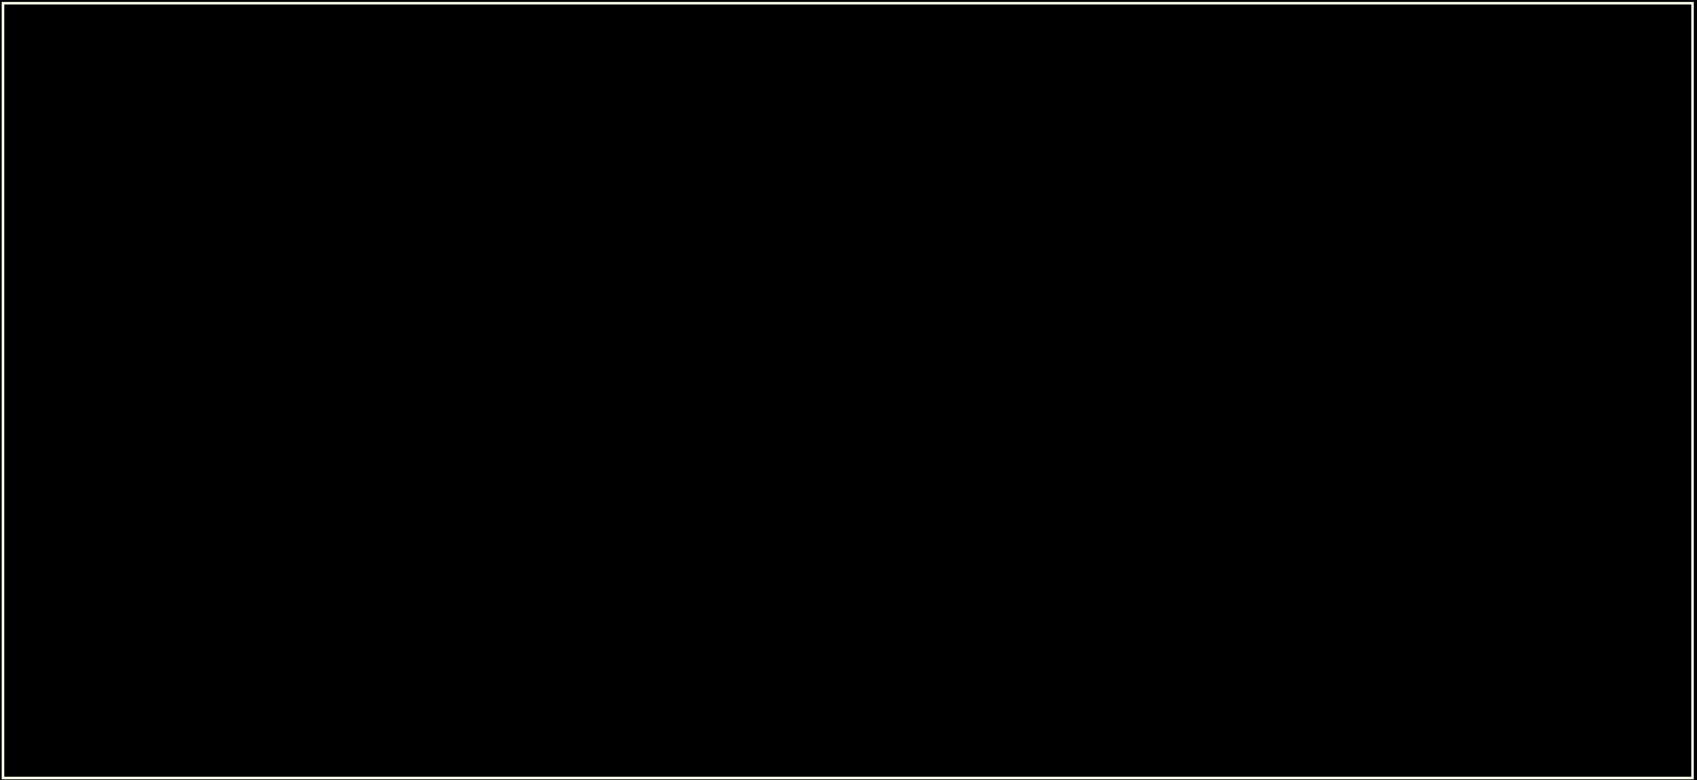
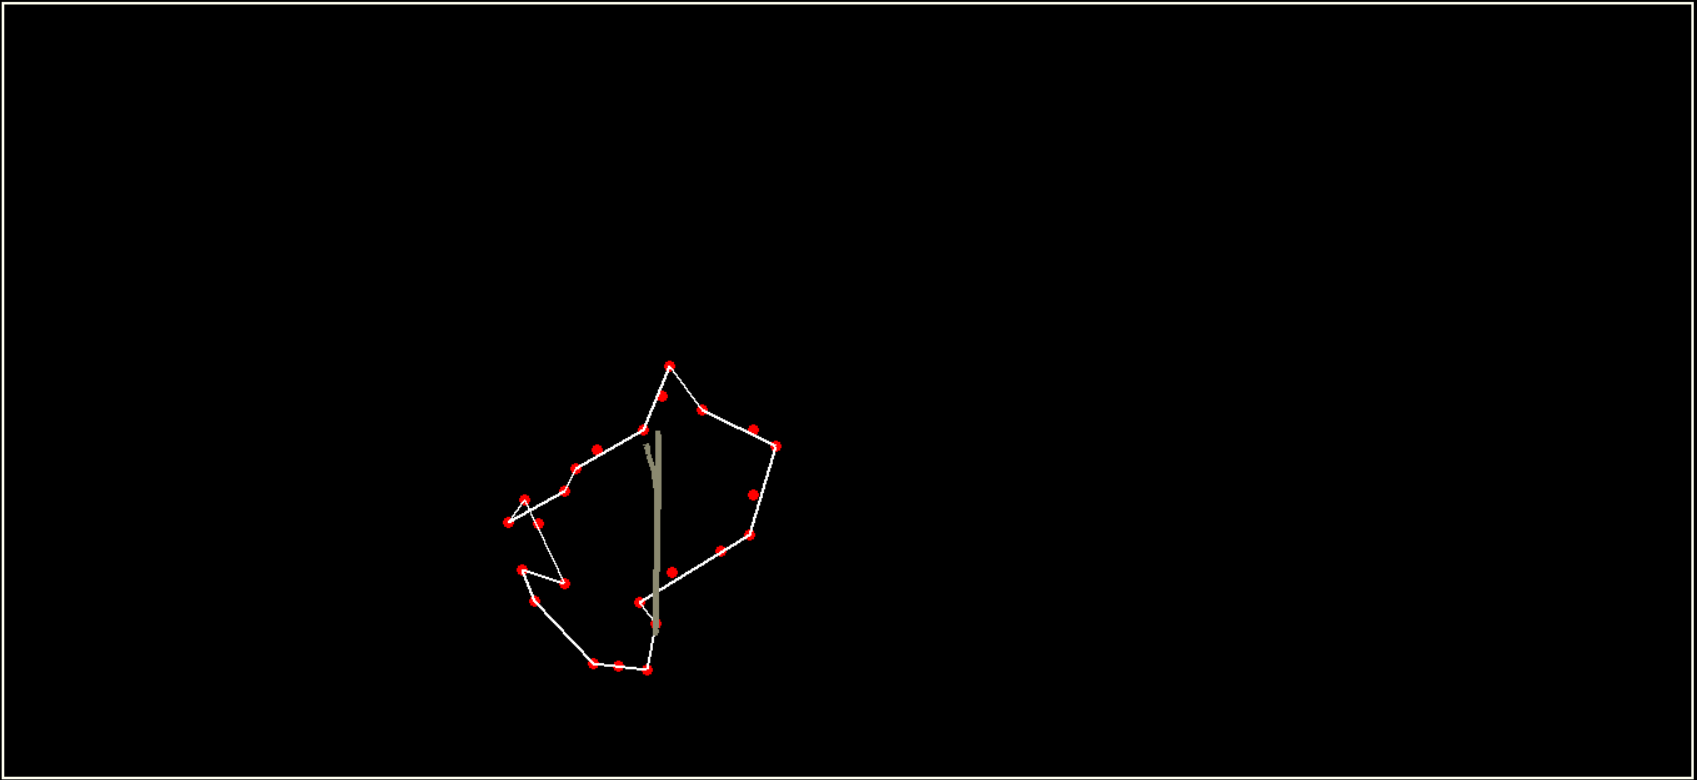
Dernière version

diff --git a/traitement_avec_obstacle.py b/traitement_avec_obstacle.py
@@ -1,0 +1,148 @@
+from math import sqrt, degrees, atan2
+import tkinter as tk
+
+class Traitement:
+    aggrandissement = 2
+    decalage_x = 600
+    decalage_y = 400
+    distance_min= 12
+    angle_min = 20
+    rayon = 5
+    distance_fermeture = 5
+    distance_connexion = 6
+    point_min = 9
+
+    def distance(self, p1, p2):
+        distance = sqrt((p1[0]-p2[0])**2 + (p1[1]-p2[1])**2)
+        return distance
+
+    def angle_entre_2_pt(self, p1, p2, p3):
+        angle = degrees(atan2(p3[1]-p2[1], p3[0]-p2[0]) - atan2(p1[1]-p2[1], p1[0]-p2[0]))
+        if angle < 0:
+            return angle + 360
+        else :
+            return angle
+
+    def supprimer_point(self, tableau_pts, distance_delete=10):
+        resultat = []
+
+        for pt in tableau_pts:
+            trop_proche = False
+            for autre_pt in resultat:
+                if self.distance(pt, autre_pt) < distance_delete:
+                    trop_proche = True
+                    break
+            if not trop_proche:
+                resultat.append(pt)
+
+        return resultat
+
+    def trouver_contours_multiple(self, tableau_pts, distance_fermeture=18, distance_connexion=50, point_min = 4):
+        tableau_pts = tableau_pts.copy()
+        non_utilises = set(tableau_pts)
+        utilise = set()
+        tous_contours = []
+
+        while len(non_utilises) != 0:
+            pt_depart = non_utilises.pop()
+            contour = [pt_depart]
+            utilise.add(pt_depart)
+            pt_actuel = pt_depart
+
+            while True:
+                plus_proche = None
+                d_min = 9999999999999999999999
+
+                for pt in tableau_pts:
+                    if pt in utilise:
+                        continue
+                    d = self.distance(pt_actuel, pt)
+                    if d < d_min and d < distance_connexion:
+                        d_min = d
+                        plus_proche = pt
+
+                if plus_proche is None:
+                    break
+
+                if len(contour) > point_min and self.distance(plus_proche, pt_depart) < distance_fermeture:
+                    contour.append(pt_depart)
+                    break
+
+                contour.append(plus_proche)
+                utilise.add(plus_proche)
+                pt_actuel = plus_proche
+
+            if len(contour) > point_min :
+                tous_contours.append(contour)
+                
+            non_utilises = set(tableau_pts) - utilise
+        return tous_contours
+
+
+    def detecter_segments(self, tableau_contour):
+        segments = []
+        segment_aligner = [tableau_contour[0], tableau_contour[1]]
+        
+        for i in range(2, len(tableau_contour)):
+            angle = self.angle_entre_2_pt(segment_aligner[-2], segment_aligner[-1], tableau_contour[i])
+            
+            if abs(angle - 180) < self.angle_min:
+                segment_aligner.append(tableau_contour[i])
+            else:
+                segments.append(segment_aligner)
+                segment_aligner = [segment_aligner[-1], tableau_contour[i]]
+        
+        segments.append(segment_aligner)
+        return segments
+
+
+    def jolie_contour(self, segments):
+        contour = []
+        for segment in segments:
+            if len(segment) > 2:
+                contour.append(segment[0])
+                contour.append(segment[-1])
+            else:
+                contour.extend(segment)
+        contour.append(contour[0])
+        return contour
+
+
+    def afficher_points(self, tableau_pts, couleur= 'red', rayon= 4, canvas = None):
+        tableau_pts = self.supprimer_point(tableau_pts)
+        for pt in range(len(tableau_pts)):
+            x1 = tableau_pts[pt][0]
+            y1 = tableau_pts[pt][1]
+            x1p_affichage = self.decalage_x + x1*self.aggrandissement - self.rayon
+            x2p_affichage = self.decalage_x + x1*self.aggrandissement + self.rayon
+            y1p_affichage = self.decalage_y + y1*self.aggrandissement - self.rayon
+            y2p_affichage = self.decalage_y + y1*self.aggrandissement + self.rayon
+            canvas.create_oval(x1p_affichage, y1p_affichage, x2p_affichage, y2p_affichage, fill=couleur,tags='boules')
+
+
+    def afficher_contour(self, tableau_pts, couleur='white', largeur=2, canvas = None):
+        tableau_pts = self.supprimer_point(tableau_pts)
+        contours = self.trouver_contours_multiple(tableau_pts)
+        for contour in contours:
+            segments = self.detecter_segments(contour)
+            contour_final = self.jolie_contour(segments)
+            for i in range(len(contour_final)-1):
+                x1 = self.decalage_x + contour_final[i][0]* self.aggrandissement
+                y1 = self.decalage_y + contour_final[i][1]*self.aggrandissement
+                x2 = self.decalage_x + contour_final[i+1][0]*self.aggrandissement
+                y2 = self.decalage_y + contour_final[i+1][1]*self.aggrandissement
+                canvas.create_line(x1, y1, x2, y2, fill=couleur, width=largeur,tags='contour')
+
+
+if __name__ == "__main__":
+
+    tableau_pts =[(-116.91201030255147, 18.4184848459224), (-72.41144551988505, 14.570366808324628), (-85.29462723309673, 36.656668530909805), (-71.45670424113345, 9.659116729825616), (-56.03223133968331, 44.97559368290209), (-112.2332758388042, 26.258237115885482), (-65.67358635374991, 44.45141592775044), (-60.7584621585736, 24.255068591125482), (-52.01284674499741, 49.05000477264792), (-60.431884456652234, 23.806866375326095), (-68.74726838832208, 45.10558550918697), (-12.545376192777493, 32.7979101325227), (-74.98580249436354, 43.236149522627585), (-66.7436337059178, 47.20633728577047), (-68.00166582501174, 23.508661584018025), (-88.22573005898069, 41.05737819143405), (-64.66550505954005, 20.961662611984377), (-89.31145531013094, 40.496233527895555), (-83.73206746045499, -20.257464863211645), (-88.24755529940077, 38.40870752443766), (-67.11489112376557, 20.86375365524728), (-110.56393964458726, 14.938153382999655), (-69.96781327998143, 18.3478292274882), (-96.16977439184168, -17.708167979013616), (-110.78177563659364, 28.034383792948816), (-109.86381106414736, 24.864118191724476), (-111.63184915643944, 33.0268933563651), (-112.76694122538731, 26.24834269780739), (-112.62415156324792, 35.71143252637195), (-66.87879272060837, 12.716216655134296), (-107.03916825372696, 24.093855970243727), (-39.12396224975373, 63.152644403192035), (-43.296578331366945, 4.144127031425861), (-34.538602894210776, 66.34568190540644), (-102.31430718219966, 22.216080513139467), (-98.84153602561123, 51.8591744857322), (-111.51667255527549, 44.44144807758252), (-68.93320173283513, 29.597073217917092), (-82.54825515537455, 60.14541819489945), (-16.97737242408325, 25.147679333616562), (-50.104640210823035, 36.09290200449578), (-10.603793242102956, 56.69940739123424), (-18.20966858311312, 22.434791950206545), (-11.67926591891299, 60.718108441403615), (-5.659249813041192, 46.25351586678803), (-54.10132430373943, 47.134283338052946), (-36.247046135399955, 16.825176333481025), (-51.569104772527055, 34.13744936277541), (-36.12997401868257, 11.324385620527714), (-53.74532679601824, 30.968313334544757), (-59.43886992018293, 5.65508645326656), (-5.041765539612669, 40.72579697634529), (-60.72821588007016, 8.731557708786069), (-63.59423267751248, 3.664231337110366), (-98.50194577015628, 16.310111764777048), (-61.637849587297936, 30.57150174657228), (-70.07780431585682, -3.138474802900072), (-53.30677989135775, 65.70849529091326), (-105.41199242740369, 44.019019142277834), (-65.47844520973669, 30.316330932965798), (-78.93014824480707, 57.31348754895606), (-15.811134590069175, 26.63261084130376), (-37.72419354402597, 33.749682564450275), (2.7086559079710835, 20.329782768940788), (-30.299542091318976, 3.6414070200963833), (-34.286563557930165, -1.3697582390402003)]
+
+    root = tk.Tk()
+    canvas = tk.Canvas(root, width=1200, height=800, bg="black")
+    canvas.pack()
+
+    t = Traitement()
+    t.afficher_points(tableau_pts, canvas = canvas)
+    t.afficher_contour(tableau_pts, canvas = canvas)
+    root.mainloop()

diff --git a/traitement_sans_obstacle.py b/traitement_sans_obstacle.py
@@ -22,6 +22,20 @@ class Traitement:
             return angle
 
 
+    def supprimer_point(self, tableau_pts, distance_delete=10):
+        resultat = []
+
+        for pt in tableau_pts:
+            trop_proche = False
+            for autre_pt in resultat:
+                if self.distance(pt, autre_pt) < distance_delete:
+                    trop_proche = True
+                    break
+            if not trop_proche:
+                resultat.append(pt)
+
+        return resultat
+
     def trouver_contour_pas_ouf(self, tableau_pts):
         tableau_pts = tableau_pts.copy()
         contour = [tableau_pts.pop(0)]
@@ -69,6 +83,7 @@ class Traitement:
 
 
     def afficher_points(self, tableau_pts, couleur= 'red', rayon= 4, canvas = None):
+        tableau_pts = self.supprimer_point(tableau_pts)
         for pt in range(len(tableau_pts)):
             x1 = tableau_pts[pt][0]
             y1 = tableau_pts[pt][1]
@@ -80,6 +95,7 @@ class Traitement:
 
 
     def afficher_contour(self, tableau_pts, couleur='white', largeur=2, canvas = None):
+        tableau_pts = self.supprimer_point(tableau_pts)
         contour = self.trouver_contour_pas_ouf(tableau_pts)
         segments = self.detecter_segments(contour)
         contour_final = self.jolie_contour(segments)
@@ -93,8 +109,7 @@ class Traitement:
 
 if __name__ == "__main__":
 
-    tableau_pts = [(25.884486608083332, 2.591333656558904), (25.647374190184408, 13.57937469602671), (23.46514497412033, -7.647868125648587), (-25.58859495138687, 34.882765222761606), (-31.247853554465856, -10.858144980843468), (-37.289085989961364, -5.213635449083924), (-35.39823418431235, -11.092476236549066), (-32.6740039406639, 5.2503985426408555), (-63.76992791918652, 2.6708117339562425), (-40.731773483976724, -2.234204473641122), (-51.47154459008835, 0.8746593970318703), (-18.96151183290534, 21.158825984550088), (-20.979168990343318, -21.84603429853468), (-21.90918359820481, 17.7934776098926), (-22.762230576442768, 5.518729966571945), (-19.973065336663378, 13.07874494221834), (-22.28186405821009, 8.988469340034044), (-28.430359668057974, 5.931588200317328)]
-
+    tableau_pts = [(-109.35201711127756, -5.643451095106641), (-106.83283992392951, 43.097082884378615), (-127.95437036544874, 21.46684794007967), (-76.90753995435992, 61.93939591523299), (-103.09782657712542, 63.04196634577943), (-67.5909703279808, 53.658204465106806), (-81.34672577024446, 75.95400256097177), (-103.72370736455044, 3.2712683674236773), (-133.50732542774836, 53.87406326172903), (-106.07864779071953, 4.456479859342185), (-83.36265333125915, 75.77653602991853), (-97.13824149252555, 70.04898560426628), (-57.78105995084264, 43.89724573636862), (-119.53943255617928, 22.509750962921633), (-60.2411323336628, 44.510552335027356), (-116.6347434942293, 21.538732147415136), (-87.54553716002744, 5.249227330424602), (-115.68772025212976, 21.78544266481758), (-53.445514780540265, 38.56271523247425), (-62.892330031807234, 17.135039786951317), (-89.02313233665019, 73.81036067243326), (-63.71598394363329, 67.81349285801008), (-85.55111331751185, 54.31114981905522), (-83.05457140421326, 78.97108942938777), (-52.52940117928201, 50.1191412898783), (-92.08414403195492, 78.65447897101613), (-91.46825726865944, 72.15508509962565), (-69.20092531513639, 82.25212026933988), (-81.87773784838849, 84.24658831839292), (-66.73199609095843, 81.8023963510552), (-72.00709734492116, 87.37647215848712), (-64.75516054423399, 82.19588414673137), (-84.33307516053094, 82.48178147269512), (-66.76268613377661, 89.66467913866062), (-83.77051917557237, 68.31740973348059), (-53.10882720196062, 68.45302660159896), (-82.85965390889316, 70.52142955273995), (-54.53401567308783, 28.080909074147865), (-80.20472938563925, 66.3027054807995), (-93.10994567522148, 20.225522664451503), (-67.08584062861976, 92.42759561505459), (-85.14404575787627, 21.884123963866546), (-115.48910433971307, 73.8053634973011), (-88.5379182683853, 22.01416261771316), (-98.22431111655655, 26.426527986758433), (-47.45987557444388, 66.07001065224343), (-94.62343736158317, 23.077886510246437), (-45.00070674261465, 48.72882030363432), (-45.2367722670259, 41.065349862603725), (-88.98564537463734, 83.87685322800165), (-42.834734338872444, 45.72427751786489), (-42.35614505658502, 48.656062198501814), (-41.56872068082175, 41.848216386877304), (-83.1889840297451, 73.73848624243917)]
     root = tk.Tk()
     canvas = tk.Canvas(root, width=1200, height=800, bg="black")
     canvas.pack()

diff --git a/interface.py b/interface.py
@@ -4,7 +4,8 @@ from tkinter import simpledialog
 from PIL import Image, ImageTk, ImageGrab
 from pilotage import Pilotage
 from math import sin,cos,pi
-import traitement as Tr
+import traitement_avec_obstacle as Tr
+import traitement_sans_obstacle as Tr2
 import numpy as np
 import threading
 import os
@@ -13,9 +14,10 @@ import os
 class Interface:
     def __init__(self):
         self.tr = Tr.Traitement()
+        self.tr2 = Tr2.Traitement()
         
         self.window = tk.Tk()
-        self.window.title("zone detector 3000")
+        self.window.title("Zone detector 3000")
 
         width_screen = self.window.winfo_screenwidth()
         height_screen = self.window.winfo_screenheight()
@@ -24,7 +26,7 @@ class Interface:
         self.height_window = height_screen - 90
 
         self.canvas = tk.Canvas(self.window, bg='black', width=self.width_window , height=self.height_window)
-        self.canvas.grid()
+        self.canvas.grid()  
 
         self.canvas.bind("<Button-1>", self.on_click)
         
@@ -93,7 +95,7 @@ class Interface:
         y1p = y1 * aggrandissement + decalage_y
         y2p = y2 * aggrandissement + decalage_y
         self.line = self.canvas.create_line(x1p, y1p, x2p, y2p,
-            fill="ivory", tags="line", width= 2)
+            fill="LemonChiffon4", tags="line", width= 4)
         self.lines_canva.append(self.line)
         
 
@@ -122,8 +124,18 @@ class Interface:
 #Fonctions liées aux boutons
     def contour(self):
         tableau_de_collisions = self.pilotage.pos_collisions
+        self.canvas.delete("boules")
+        self.canvas.delete("contour")
         self.tr.afficher_points(tableau_de_collisions , canvas= self.canvas)
         self.tr.afficher_contour(tableau_de_collisions , canvas = self.canvas)
+
+
+    def contour2(self):
+        tableau_de_collisions = self.pilotage.pos_collisions
+        self.canvas.delete("boules")
+        self.canvas.delete("contour")
+        self.tr2.afficher_points(tableau_de_collisions , canvas= self.canvas, couleur = "red")
+        self.tr2.afficher_contour(tableau_de_collisions , canvas = self.canvas, couleur = "white")
 
 
     def rotate_canva(self):
@@ -204,17 +216,20 @@ class Interface:
 
         self.carre = self.canvas.create_rectangle(self.x1_z, self.y1_z, self.x2_z, self.y2_z, outline="ivory", width=2)
 
-        self.button1 = tk.Button(self.window, text="Contour", command=self.contour, width=13)
+        self.button1 = tk.Button(self.window, text="Contour obstacle", command=self.contour, width=15)
         self.button1.place(x=self.width_window - self.width_window * 0.96, y=10)
 
-        self.button2 = tk.Button(self.window, text="Rotation", command=self.rotate_canva, width=13)
-        self.button2.place(x=self.width_window - self.width_window * 0.96 + 110, y=10)
+        self.button1 = tk.Button(self.window, text="Contour no obstacle", command=self.contour2, width=15)
+        self.button1.place(x=self.width_window - self.width_window * 0.96 + 120 , y=10)
 
-        self.button3 = tk.Button(self.window, text="Translate", command=self.translate_canva, width=13)
-        self.button3.place(x=self.width_window - self.width_window * 0.96 + 220, y=10)
+        self.button2 = tk.Button(self.window, text="Rotation", command=self.rotate_canva, width=15)
+        self.button2.place(x=self.width_window - self.width_window * 0.96 + 240, y=10)
 
-        self.button4 = tk.Button(self.window, text="Delete", command = self.delete_canva, width=13)
-        self.button4.place(x = self.width_window - self.width_window * 0.96 + 330, y=10)
+        self.button3 = tk.Button(self.window, text="Translate", command=self.translate_canva, width=15)
+        self.button3.place(x=self.width_window - self.width_window * 0.96 + 360, y=10)
+
+        self.button4 = tk.Button(self.window, text="Delete", command = self.delete_canva, width=15)
+        self.button4.place(x = self.width_window - self.width_window * 0.96 + 480, y=10)
 
 
 #Fonctions liées aux menus

diff --git a/pilotage.py b/pilotage.py
@@ -2,20 +2,21 @@ from spherov2 import scanner
 from spherov2.sphero_edu import SpheroEduAPI
 from spherov2.types import Color
 import filtre_kalman as Fk
+from math import sqrt
 import numpy as np
 from threading import Thread, Event
 import random as rd
 import time
 
-    
+#SB-9A4B
+#SB-DB73
 class Pilotage:
-    def __init__(self, toy_name="SB-DB73", bot_speed=30, collision_time=5, sampling_rate=0.2):
-
+    def __init__(self, toy_name="SB-DB73", bot_speed=25, collision_time=5, sampling_rate=0.2):
+        self.THRESHHOLD = 2
         self.BOT_SPEED = bot_speed
         self.COLLISION_TIME = collision_time
         self.SAMPLING_RATE = sampling_rate
         self.EPOCH = time.time()
-        self.recoit_donnees = False
 
         self.fk = Fk.FK()
         self.collision = False
@@ -42,17 +43,13 @@ class Pilotage:
         self.bot.set_heading(0)
         self.bot.set_stabilization(True)
        
-        while not self.running.is_set():
-            #print("Données reçues" if self.recoit_donnees else "Aucune donnée") 
-            self.recoit_donnees = False  
+        while not self.running.is_set(): 
             if self.BOT_SPEED and (time.time()-self.EPOCH) >7: # permet de ne pas prendre le départ du robot comme point de collision (le départ est à 4-5 secondes)
-
-                self.bot.roll(self.bot.get_heading() + 180 + 50 * rd.randint(-1, 1), self.BOT_SPEED, 1)
-                for i in range(4):
-
-                    self.bot.roll(self.bot.get_heading(), self.BOT_SPEED, 1)
                 collision_position = self.pos_all[-1]
                 self.pos_collisions.append(collision_position)
+                self.bot.roll(self.bot.get_heading() + 175 + 50 * rd.randint(-1, 1), self.BOT_SPEED, 1)
+                for i in range(5): # une collion est prise toutes les 1 +5 secondes (en espérant que le robot touche un mur avant de prendre ce point)
+                    self.bot.roll(self.bot.get_heading(), self.BOT_SPEED, 1)
             time.sleep(1)
 
 
@@ -77,7 +74,7 @@ class Pilotage:
                 position = tuple(float(x) for x in self.fk.get_position.ravel())
                 self.pos_all.append(position)
                 self.pos_all.pop(0)
-                
+
                 time.sleep(dt)
 
 

diff --git a/filtre_kalman.py b/filtre_kalman.py
@@ -13,7 +13,8 @@ class FK:
         self.H = np.array([[1, 0, 0, 0],
                            [0, 1, 0, 0]])
 
-        self.R = np.eye(2) * 1.0
+        self.R = np.array([[0.7, 0],
+                           [0, 1]]) * 1.0
         self.I = np.eye(4)
 
 
